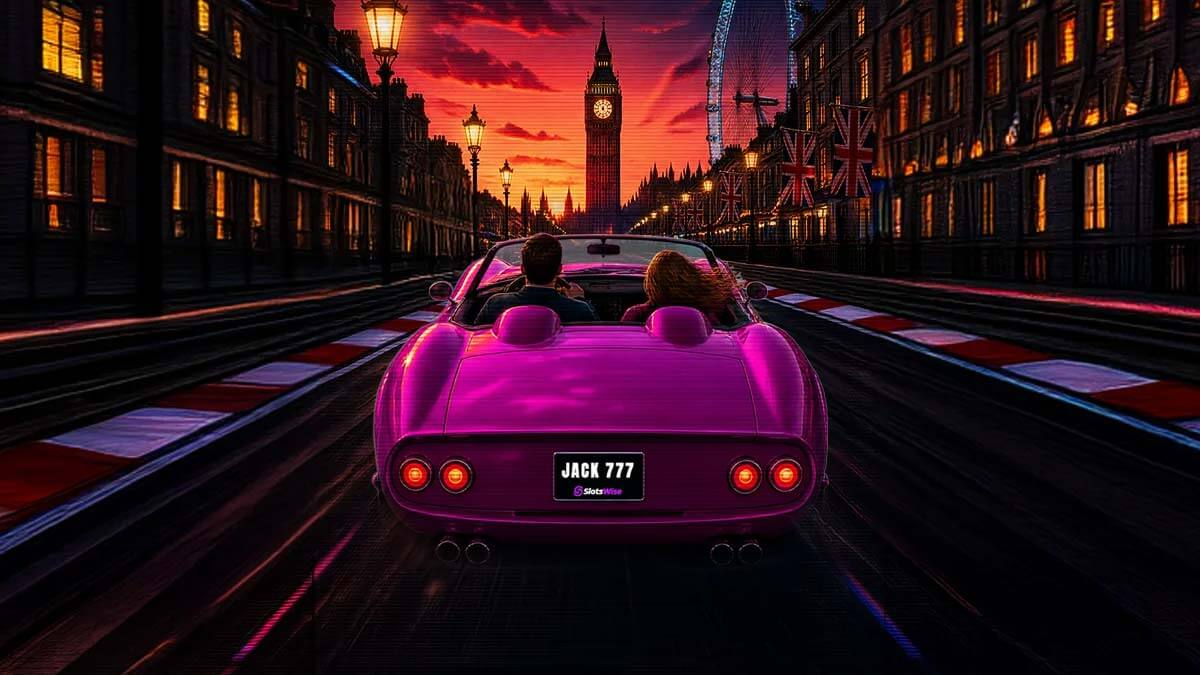
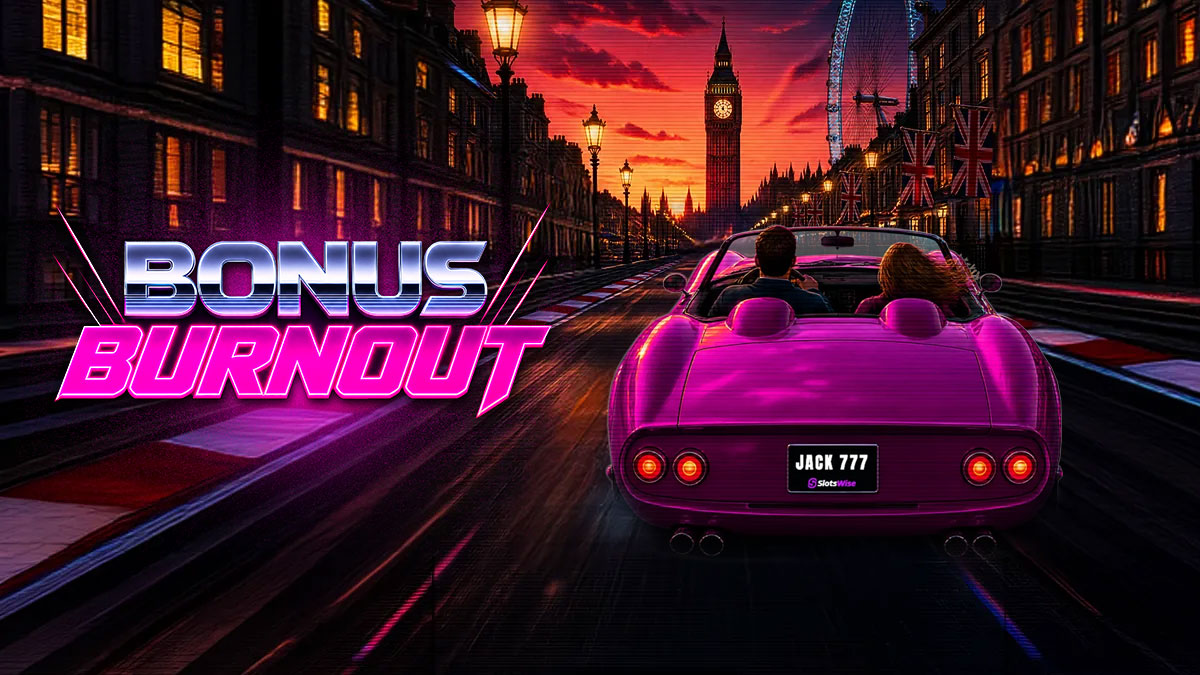
Add files via upload

diff --git a/index.html b/index.html
@@ -3,10 +3,11 @@
 <head>
   <meta charset="UTF-8" />
   <meta name="viewport" content="width=device-width, initial-scale=1.0" />
+  <meta name="color-scheme" content="light" />
   <title>Creative Hub — Quantum</title>
   <link rel="icon" href="assets/logos/favicon_master.svg" />
-  <link rel="stylesheet" href="assets/styles.css?v=32" />
-  <script src="assets/app.js?v=32" defer></script>
+  <link rel="stylesheet" href="assets/styles.css?v=44" />
+  <script src="assets/app.js?v=44" defer></script>
 </head>
 <body>
   <!-- ===== Top nav (same on every page) ===== -->
@@ -77,10 +78,36 @@
     </div></div>
 
     <div class="band band-grey"><div class="wrap">
+    <!-- ===== What's new? =====
+      Each card: image + title + description + CTA. To add a cover image, drop it in assets/whatsnew/
+      and add  <img class="rc-img" src="assets/whatsnew/your-image.jpg" alt="" />  as the first child of .res-cover.
+      Set the card's href to where the CTA should go. Swap tone-* (rose / orange / green / purple) for the placeholder colour.
+    -->
+    <div class="section-head acc-green"><h2>What's new?</h2><span class="meta">Latest from the studio</span></div>
+    <div class="res-grid">
+      <a class="res-card" href="#">
+        <div class="res-cover"><img class="rc-img" src="assets/whatsnew/bynder.jpg" alt="Bynder" /></div>
+        <div class="res-body"><div class="res-title">Coming soon — Bynder</div><div class="res-desc">We're adding a DAM (digital asset management) tool to the stack. Bynder will store every asset we produce and let stakeholders search and find them in seconds. Watch this space.</div><span class="res-cta">Coming soon</span></div>
+      </a>
+      <a class="res-card" href="https://fliphtml5.com/bookcase/rgzyz/" target="_blank" rel="noopener">
+        <div class="res-cover"><img class="rc-img" src="assets/resources/all-guidelines.png" alt="All brand guidelines library" /></div>
+        <div class="res-body"><div class="res-title">Looking for guidelines?</div><div class="res-desc">All our brand guidelines now live in one hub library. Take a minute to get familiar with our corporate and portfolio brands.</div><span class="res-cta">Open the library ↗</span></div>
+      </a>
+      <a class="res-card" href="CaseStudy-BonusBurnout.html" target="_blank" rel="noopener">
+        <div class="res-cover"><img class="rc-img" src="assets/showcase/bonus-burnout.jpg" alt="Bonus Burnout mini-game" /></div>
+        <div class="res-body"><div class="res-title">Case study — Bonus Burnout</div><div class="res-desc">Our newest in-house interactive mini-game, built entirely in Bannerflow — one of many new games we can produce for any landing page you need.</div><span class="res-cta">Explore →</span></div>
+      </a>
+    </div>
+    </div></div>
+
+    <div class="band band-white"><div class="wrap">
     <!-- ===== At a glance ===== -->
     <div class="section-head acc-orange"><h2>At a glance</h2><span class="meta" id="glance-meta"></span></div>
     <div class="grid grid-4" id="glance">
       <div class="card stat"><div class="stat-value">…</div><div class="stat-label">Loading</div></div>
+    </div>
+    <div style="text-align:center;margin-top:28px;">
+      <a class="btn btn-primary" href="data.html">Explore studio data →</a>
     </div>
     </div></div>
   </main>
@@ -109,7 +136,7 @@
     </div>
     <div class="wrap footer-bar">
       <span>Quantum Creative Hub</span>
-      <span>Internal use only · V1.02</span>
+      <span>Internal use only · V1.03</span>
     </div>
   </footer>
 

diff --git a/dashboard.html b/dashboard.html
@@ -3,11 +3,12 @@
 <head>
   <meta charset="UTF-8" />
   <meta name="viewport" content="width=device-width, initial-scale=1.0" />
+  <meta name="color-scheme" content="light" />
   <title>Dashboard — Creative Hub</title>
   <link rel="icon" href="assets/logos/favicon_master.svg" />
-  <link rel="stylesheet" href="assets/styles.css?v=43" />
+  <link rel="stylesheet" href="assets/styles.css?v=44" />
   <script src="https://cdnjs.cloudflare.com/ajax/libs/Chart.js/4.4.1/chart.umd.min.js"></script>
-  <script src="assets/app.js?v=43" defer></script>
+  <script src="assets/app.js?v=44" defer></script>
 </head>
 <body>
   <!-- Standalone page: intentionally NOT linked from the main nav. Reachable by direct URL only. -->
@@ -173,7 +174,7 @@
     </div>
     <div class="wrap footer-bar">
       <span>Quantum Creative Hub</span>
-      <span>Internal use only · V1.02</span>
+      <span>Internal use only · V1.03</span>
     </div>
   </footer>
 

diff --git a/resources.html b/resources.html
@@ -3,10 +3,11 @@
 <head>
   <meta charset="UTF-8" />
   <meta name="viewport" content="width=device-width, initial-scale=1.0" />
+  <meta name="color-scheme" content="light" />
   <title>Resources — Creative Hub</title>
   <link rel="icon" href="assets/logos/favicon_master.svg" />
-  <link rel="stylesheet" href="assets/styles.css?v=32" />
-  <script src="assets/app.js?v=32" defer></script>
+  <link rel="stylesheet" href="assets/styles.css?v=44" />
+  <script src="assets/app.js?v=44" defer></script>
 </head>
 <body>
   <nav class="nav">
@@ -119,7 +120,7 @@
     </div>
     <div class="wrap footer-bar">
       <span>Quantum Creative Hub</span>
-      <span>Internal use only · V1.02</span>
+      <span>Internal use only · V1.03</span>
     </div>
   </footer>
 </body>

diff --git a/showcase.html b/showcase.html
@@ -3,10 +3,11 @@
 <head>
   <meta charset="UTF-8" />
   <meta name="viewport" content="width=device-width, initial-scale=1.0" />
+  <meta name="color-scheme" content="light" />
   <title>Showcase — Creative Hub</title>
   <link rel="icon" href="assets/logos/favicon_master.svg" />
-  <link rel="stylesheet" href="assets/styles.css?v=32" />
-  <script src="assets/app.js?v=32" defer></script>
+  <link rel="stylesheet" href="assets/styles.css?v=44" />
+  <script src="assets/app.js?v=44" defer></script>
 </head>
 <body>
   <nav class="nav">
@@ -101,7 +102,7 @@
     </div>
     <div class="wrap footer-bar">
       <span>Quantum Creative Hub</span>
-      <span>Internal use only · V1.02</span>
+      <span>Internal use only · V1.03</span>
     </div>
   </footer>
 </body>

diff --git a/data.html b/data.html
@@ -3,10 +3,11 @@
 <head>
   <meta charset="UTF-8" />
   <meta name="viewport" content="width=device-width, initial-scale=1.0" />
+  <meta name="color-scheme" content="light" />
   <title>Data — Creative Hub</title>
   <link rel="icon" href="assets/logos/favicon_master.svg" />
-  <link rel="stylesheet" href="assets/styles.css?v=32" />
-  <script src="assets/app.js?v=32" defer></script>
+  <link rel="stylesheet" href="assets/styles.css?v=44" />
+  <script src="assets/app.js?v=44" defer></script>
 </head>
 <body>
   <nav class="nav">
@@ -184,7 +185,7 @@
     </div>
     <div class="wrap footer-bar">
       <span>Quantum Creative Hub</span>
-      <span>Internal use only · V1.02</span>
+      <span>Internal use only · V1.03</span>
     </div>
   </footer>
 

diff --git a/jobs.html b/jobs.html
@@ -3,10 +3,11 @@
 <head>
   <meta charset="UTF-8" />
   <meta name="viewport" content="width=device-width, initial-scale=1.0" />
+  <meta name="color-scheme" content="light" />
   <title>Jobs — Creative Hub</title>
   <link rel="icon" href="assets/logos/favicon_master.svg" />
-  <link rel="stylesheet" href="assets/styles.css?v=32" />
-  <script src="assets/app.js?v=32" defer></script>
+  <link rel="stylesheet" href="assets/styles.css?v=44" />
+  <script src="assets/app.js?v=44" defer></script>
 </head>
 <body>
   <nav class="nav">
@@ -123,7 +124,7 @@
     </div>
     <div class="wrap footer-bar">
       <span>Quantum Creative Hub</span>
-      <span>Internal use only · V1.02</span>
+      <span>Internal use only · V1.03</span>
     </div>
   </footer>
 

diff --git a/team.html b/team.html
@@ -3,10 +3,11 @@
 <head>
   <meta charset="UTF-8" />
   <meta name="viewport" content="width=device-width, initial-scale=1.0" />
+  <meta name="color-scheme" content="light" />
   <title>Team — Creative Hub</title>
   <link rel="icon" href="assets/logos/favicon_master.svg" />
-  <link rel="stylesheet" href="assets/styles.css?v=32" />
-  <script src="assets/app.js?v=32" defer></script>
+  <link rel="stylesheet" href="assets/styles.css?v=44" />
+  <script src="assets/app.js?v=44" defer></script>
 </head>
 <body>
   <nav class="nav">
@@ -81,7 +82,7 @@
     </div>
     <div class="wrap footer-bar">
       <span>Quantum Creative Hub</span>
-      <span>Internal use only · V1.02</span>
+      <span>Internal use only · V1.03</span>
     </div>
   </footer>
 

diff --git a/assets/styles.css b/assets/styles.css
@@ -19,6 +19,7 @@
 @font-face { font-family: 'Proxima Nova'; src: url('fonts/ProximaNova-Extrabold.woff2') format('woff2'); font-weight: 800; font-display: swap; }
 
 :root {
+  color-scheme: light;   /* brand is a fixed light theme — stop browsers/OS auto-inverting it */
   --quantum-blue: #0086ff;
   --quantum-blue-80: #339ef2;
   --quantum-blue-40: #99ceee;
